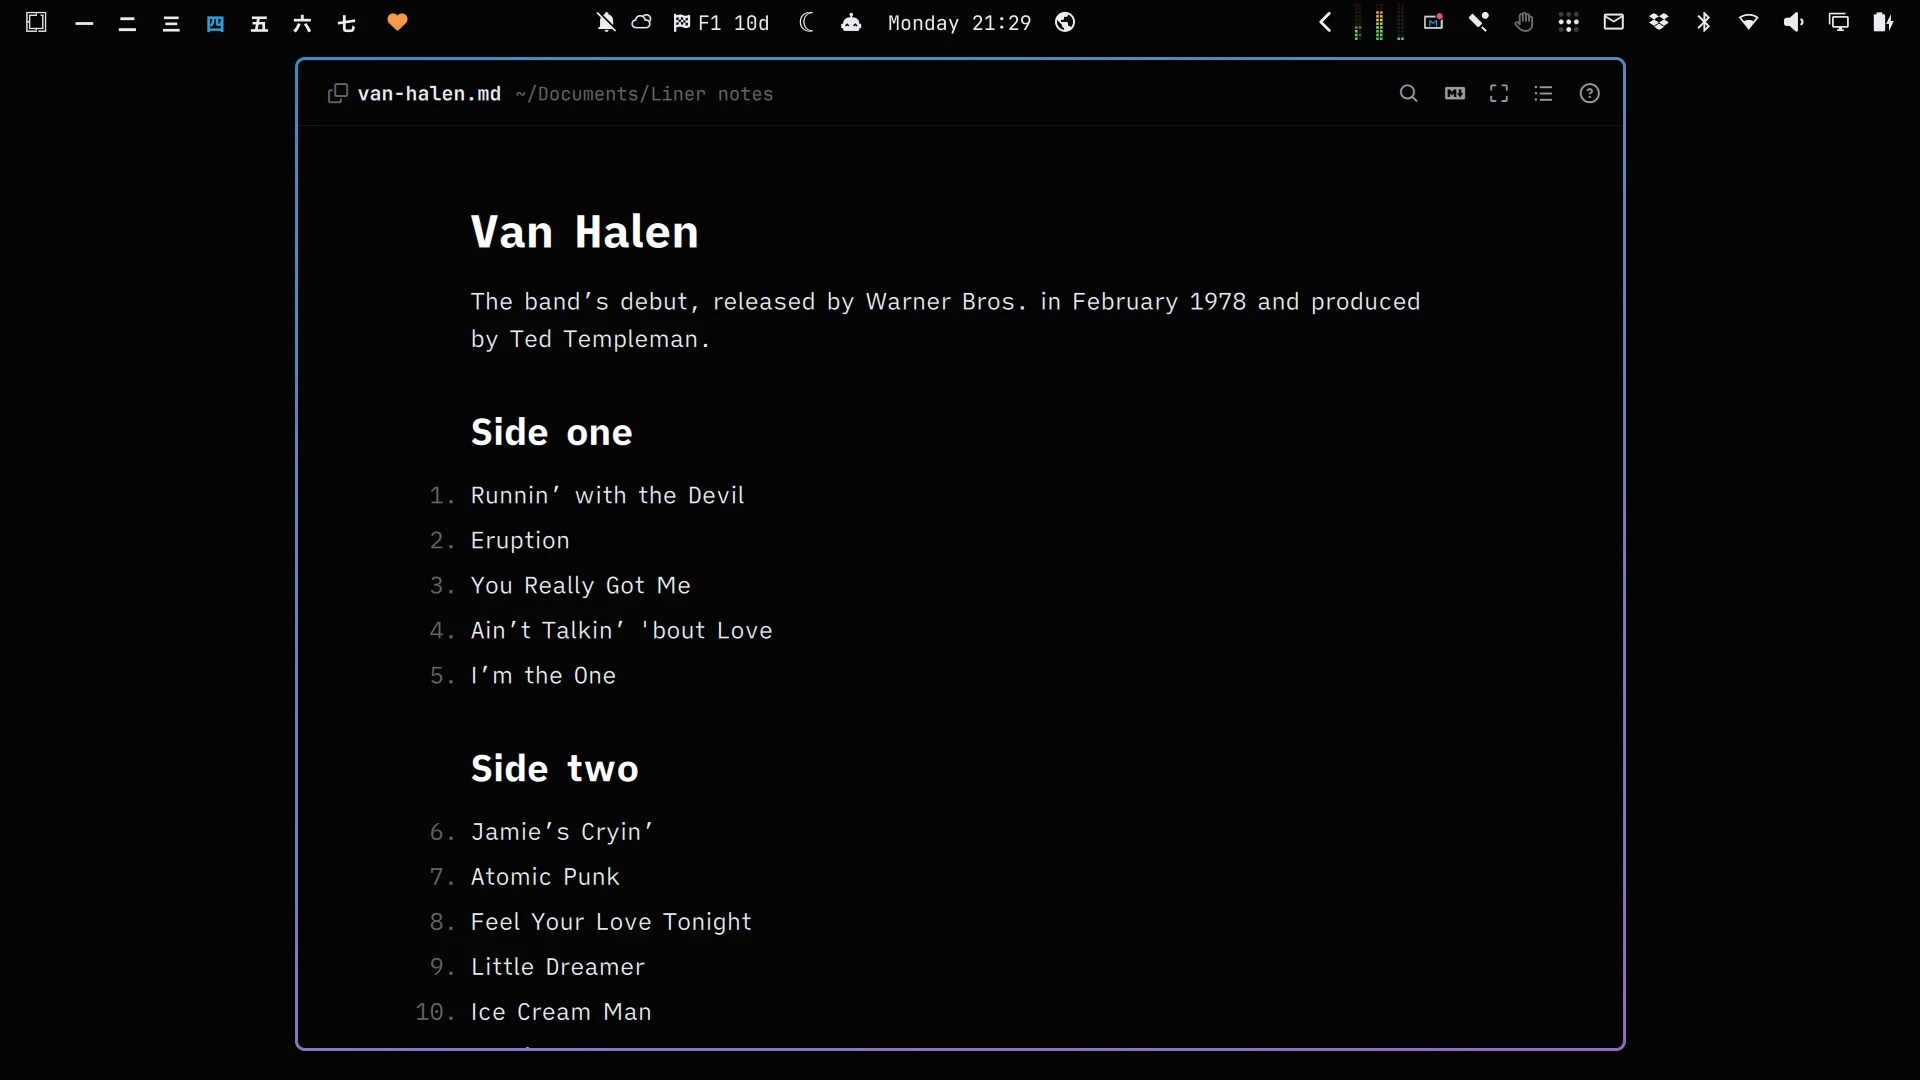
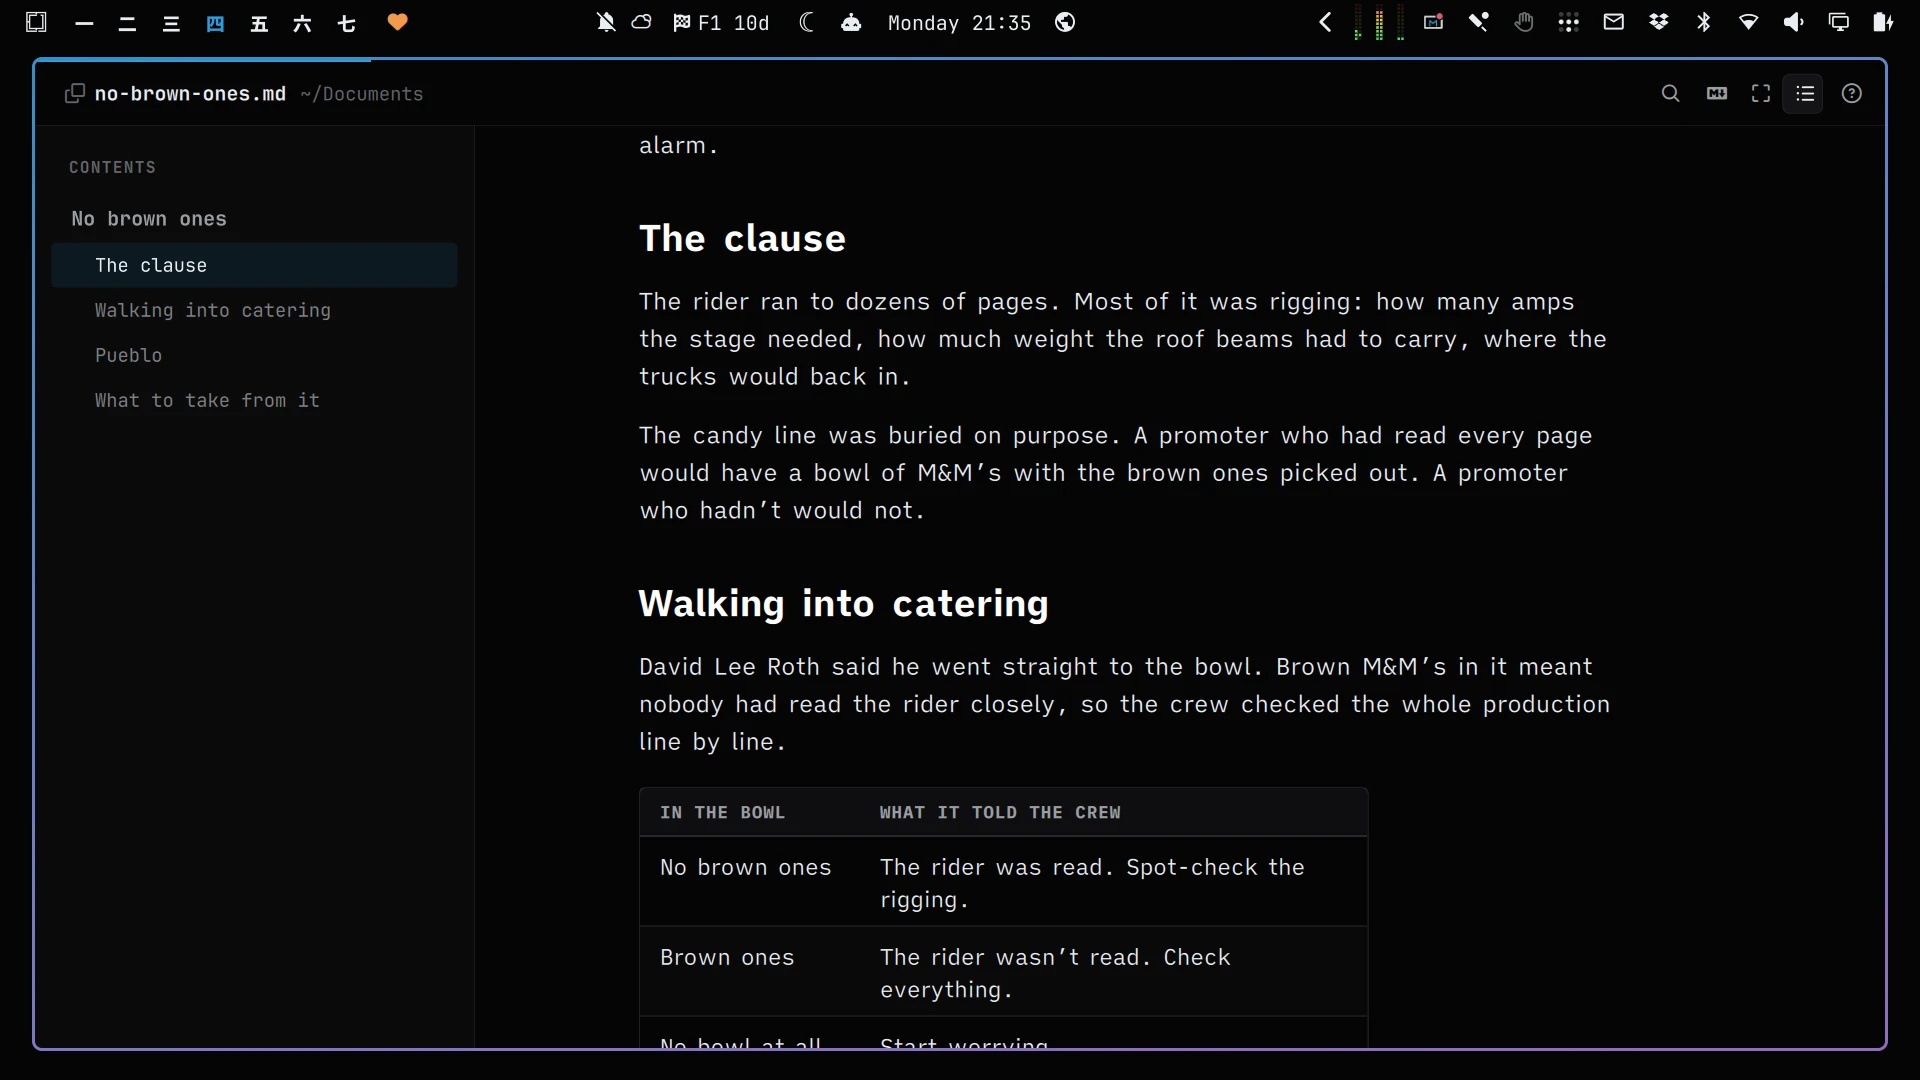
Reader shot with a proper document and the outline

diff --git a/README.md b/README.md
@@ -10,8 +10,6 @@ An [Omarchy](https://omarchy.org/) theme from the winged logo on Van Halen's fir
 omarchy theme install https://github.com/keithrowell/omarchy-van-halen-i-theme
 ```
 
-The theme applies as soon as it installs.
-
 ## Backgrounds
 
 <p>
